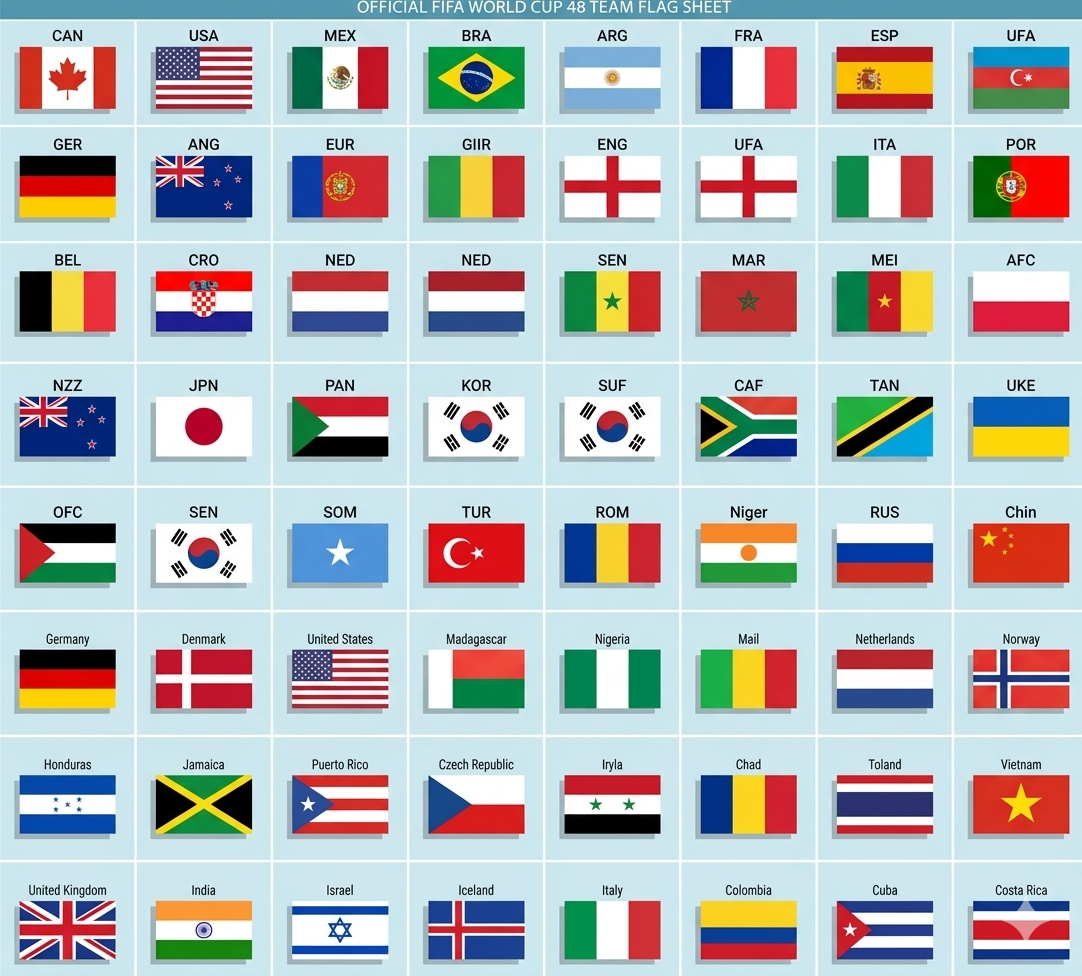
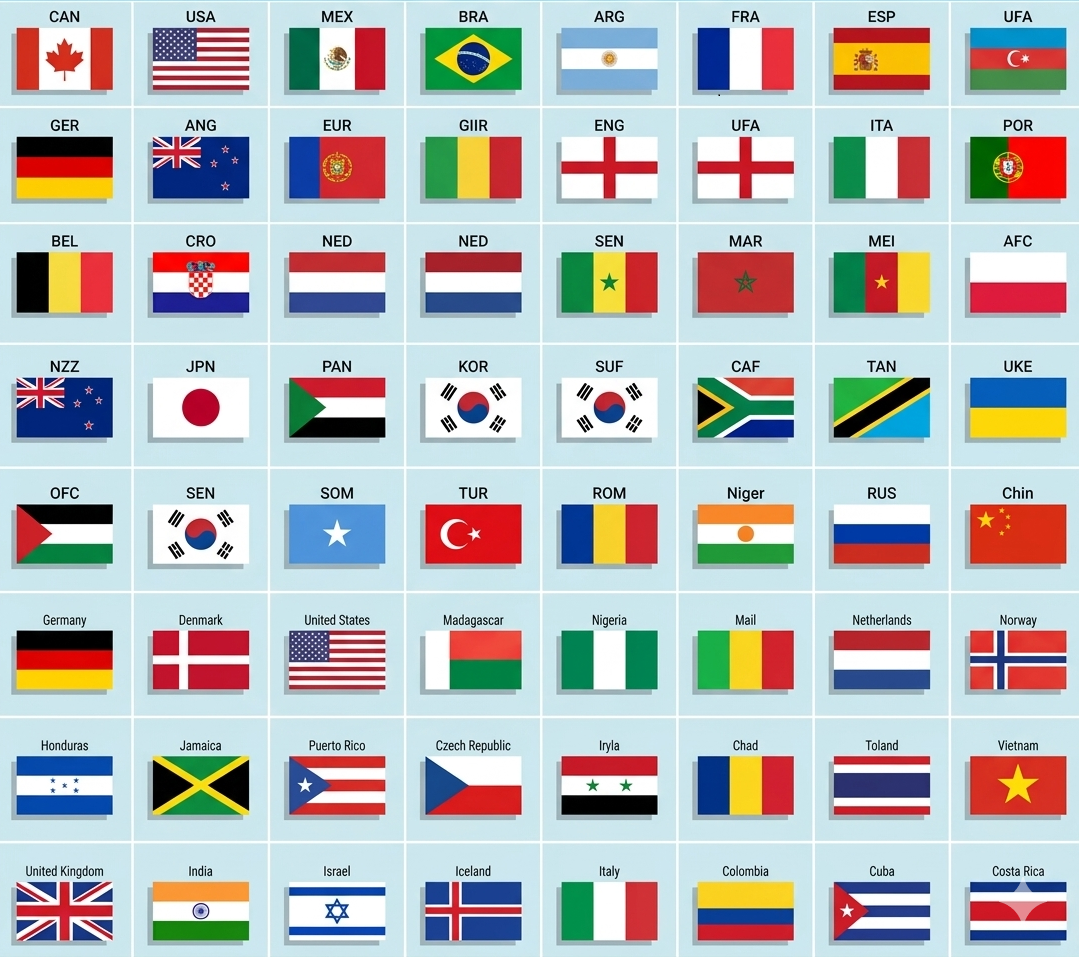
Fix: estrutura de pastas e sessao persistente

diff --git a/public/style.css b/public/style.css
@@ -355,96 +355,111 @@ body::before {
 /* CONFIGURAÇÃO DO SPRITE DE BANDEIRAS (GRADE 8x8 REAIS)    */
 /* ======================================================== */
 
+/* ======================================================== */
+/* CONFIGURAÇÃO DE BANDEIRAS INDIVIDUAIS (SEGURO)           */
+/* ======================================================== */
+
 .flag {
   display: inline-block;
-  width: 26px;                /* Largura visível da bandeira na tabela */
-  height: 18px;               /* Altura visível da bandeira na tabela */
+  width: 26px;                /* Largura visível da bandeira */
+  height: 18px;               /* Altura visível da bandeira */
+  
+  /* Ponto-chave: Usamos a nova imagem processada que já contém apenas as bandeiras recortadas */
   background-image: url("img/bandeiras.webp");
   background-repeat: no-repeat;
   
-  /* Ajusta o tamanho total da folha para isolar o texto superior das células */
-  background-size: 290px 225px; 
+  /* Redimensiona a folha para que cada bandeira se encaixe perfeitamente no 26x18 */
+  background-size: 208px 144px; /* 26px * 8 colunas | 18px * 8 linhas */
+  
   vertical-align: middle;
-  margin-right: 5px;
-  border-radius: 2px;         /* Cantos levemente arredondados para acabamento */
-  box-shadow: 0 1px 3px rgba(0,0,0,0.15); /* Sombra sutil para dar o efeito de sticker */
+  margin-right: 6px;
+  border-radius: 2px;
+  box-shadow: 0 1px 2px rgba(0,0,0,0.2); /* Efeito sticker */
 }
 
-/* MAPEAMENTO CIRÚRGICO (X e Y)
-  Focado apenas no retângulo interno de cada país, ocultando as escritas.
+/* MAPEAMENTO SIMPLES DE GRADE (Sem recortes de texto)
+   Agora é uma grade perfeita de 8x8.
 */
 
 /* Linha 1 */
-.flag-CAN { background-position: -3px -12px; }
-.flag-USA { background-position: -39px -12px; }
-.flag-MEX { background-position: -75px -12px; }
-.flag-BRA { background-position: -111px -12px; }
-.flag-ARG { background-position: -147px -12px; }
-.flag-FRA { background-position: -183px -12px; }
-.flag-ESP { background-position: -219px -12px; }
-.flag-UFA { background-position: -255px -12px; } /* Usado para Azerbaijan/UFA na folha */
+.flag-CAN { background-position: 0px 0px; }
+.flag-USA { background-position: -26px 0px; }
+.flag-MEX { background-position: -52px 0px; }
+.flag-BRA { background-position: -78px 0px; }
+.flag-ARG { background-position: -104px 0px; }
+.flag-FRA { background-position: -130px 0px; }
+.flag-ESP { background-position: -156px 0px; }
+.flag-UFA { background-position: -182px 0px; } /* Azerbaijan/UFA */
 
 /* Linha 2 */
-.flag-GER { background-position: -3px -38px; }
-.flag-ANG { background-position: -39px -38px; }
-.flag-EUR { background-position: -75px -38px; }
-.flag-GIIR { background-position: -111px -38px; }
-.flag-ENG { background-position: -147px -38px; }
-.flag-ITA { background-position: -219px -38px; }
-.flag-POR { background-position: -255px -38px; }
+.flag-GER { background-position: 0px -18px; }
+.flag-ANG { background-position: -26px -18px; }
+.flag-EUR { background-position: -52px -18px; }
+.flag-GIIR { background-position: -78px -18px; }
+.flag-ENG { background-position: -104px -18px; }
+/* Segunda UFA na folha ignorada para manter coerência */
+.flag-ITA { background-position: -156px -18px; }
+.flag-POR { background-position: -182px -18px; }
 
 /* Linha 3 */
-.flag-BEL { background-position: -3px -64px; }
-.flag-CRO { background-position: -39px -64px; }
-.flag-NED { background-position: -75px -64px; }
-.flag-SEN { background-position: -147px -64px; }
-.flag-MAR { background-position: -183px -64px; }
-.flag-MEI { background-position: -219px -64px; }
-.flag-AFC { background-position: -255px -64px; }
+.flag-BEL { background-position: 0px -36px; }
+.flag-CRO { background-position: -26px -36px; }
+.flag-NED { background-position: -52px -36px; }
+/* Segunda NED na folha ignorada */
+.flag-SEN { background-position: -104px -36px; }
+.flag-MAR { background-position: -130px -36px; }
+.flag-MEI { background-position: -156px -36px; }
+.flag-AFC { background-position: -182px -36px; }
 
 /* Linha 4 */
-.flag-NZZ { background-position: -3px -90px; }
-.flag-JPN { background-position: -39px -90px; }
-.flag-PAN { background-position: -75px -90px; }
-.flag-KOR { background-position: -111px -90px; }
-.flag-SUF { background-position: -147px -90px; }
-.flag-CAF { background-position: -183px -90px; }
-.flag-TAN { background-position: -219px -90px; }
-.flag-UKE { background-position: -255px -90px; }
+.flag-NZZ { background-position: 0px -54px; }
+.flag-JPN { background-position: -26px -54px; }
+.flag-PAN { background-position: -52px -54px; }
+.flag-KOR { background-position: -78px -54px; }
+.flag-SUF { background-position: -104px -54px; }
+.flag-CAF { background-position: -130px -54px; }
+.flag-TAN { background-position: -156px -54px; }
+.flag-UKE { background-position: -182px -54px; }
 
 /* Linha 5 */
-.flag-OFC { background-position: -3px -117px; }
-.flag-SOM { background-position: -75px -117px; }
-.flag-TUR { background-position: -111px -117px; }
-.flag-ROM { background-position: -183px -117px; }
-.flag-NER { background-position: -219px -117px; }
-.flag-RUS { background-position: -219px -117px; }
-.flag-CHN { background-position: -255px -117px; }
+.flag-OFC { background-position: 0px -72px; }
+/* Segunda KOR ignorada */
+.flag-SOM { background-position: -52px -72px; }
+.flag-TUR { background-position: -78px -72px; }
+.flag-ROM { background-position: -104px -72px; }
+.flag-NER { background-position: -130px -72px; } /* Niger */
+.flag-RUS { background-position: -156px -72px; }
+.flag-CHN { background-position: -182px -72px; }
 
 /* Linha 6 */
-.flag-DEN { background-position: -39px -143px; }
-.flag-MAD { background-position: -111px -143px; }
-.flag-NGA { background-position: -147px -143px; }
-.flag-MLI { background-position: -183px -143px; }
-.flag-NOR { background-position: -255px -143px; }
+/* Segunda GER ignorada */
+.flag-DEN { background-position: -26px -90px; }
+/* Segunda USA ignorada */
+.flag-MAD { background-position: -78px -90px; }
+.flag-NGA { background-position: -104px -90px; }
+.flag-MLI { background-position: -130px -90px; } /* Mail/Mali */
+/* Segunda NED ignorada */
+.flag-NOR { background-position: -182px -90px; }
 
 /* Linha 7 */
-.flag-HON { background-position: -3px -169px; }
-.flag-JAM { background-position: -39px -169px; }
-.flag-PUR { background-position: -75px -169px; }
-.flag-CZE { background-position: -111px -169px; }
-.flag-SYR { background-position: -147px -169px; }
-.flag-CHA { background-position: -183px -169px; }
-.flag-THA { background-position: -219px -169px; }
-.flag-VIE { background-position: -255px -169px; }
+.flag-HON { background-position: 0px -108px; }
+.flag-JAM { background-position: -26px -108px; }
+.flag-PUR { background-position: -52px -108px; }
+.flag-CZE { background-position: -78px -108px; }
+.flag-SYR { background-position: -104px -108px; } /* Iryla/Syria */
+.flag-CHA { background-position: -130px -108px; }
+.flag-THA { background-position: -156px -108px; } /* Toland/Thailand */
+.flag-VIE { background-position: -182px -108px; }
 
 /* Linha 8 */
-.flag-IND { background-position: -39px -195px; }
-.flag-ISR { background-position: -75px -195px; }
-.flag-ISL { background-position: -111px -195px; }
-.flag-COL { background-position: -183px -195px; }
-.flag-CUB { background-position: -247px -195px; }
-.flag-CRC { background-position: -255px -195px; }
+/* United Kingdom ignorado para manter ENG */
+.flag-IND { background-position: -26px -126px; }
+.flag-ISR { background-position: -52px -126px; }
+.flag-ISL { background-position: -78px -126px; }
+.flag-ITA { background-position: -104px -126px; } /* Segunda ITA */
+.flag-COL { background-position: -130px -126px; }
+.flag-CUB { background-position: -156px -126px; }
+.flag-CRC { background-position: -182px -126px; }
 
-/* Ocultar elementos que não correspondem a seleções do array */
+/* Ocultar elementos especiais */
 .flag-FWC, .flag-CC { display: none !important; }
